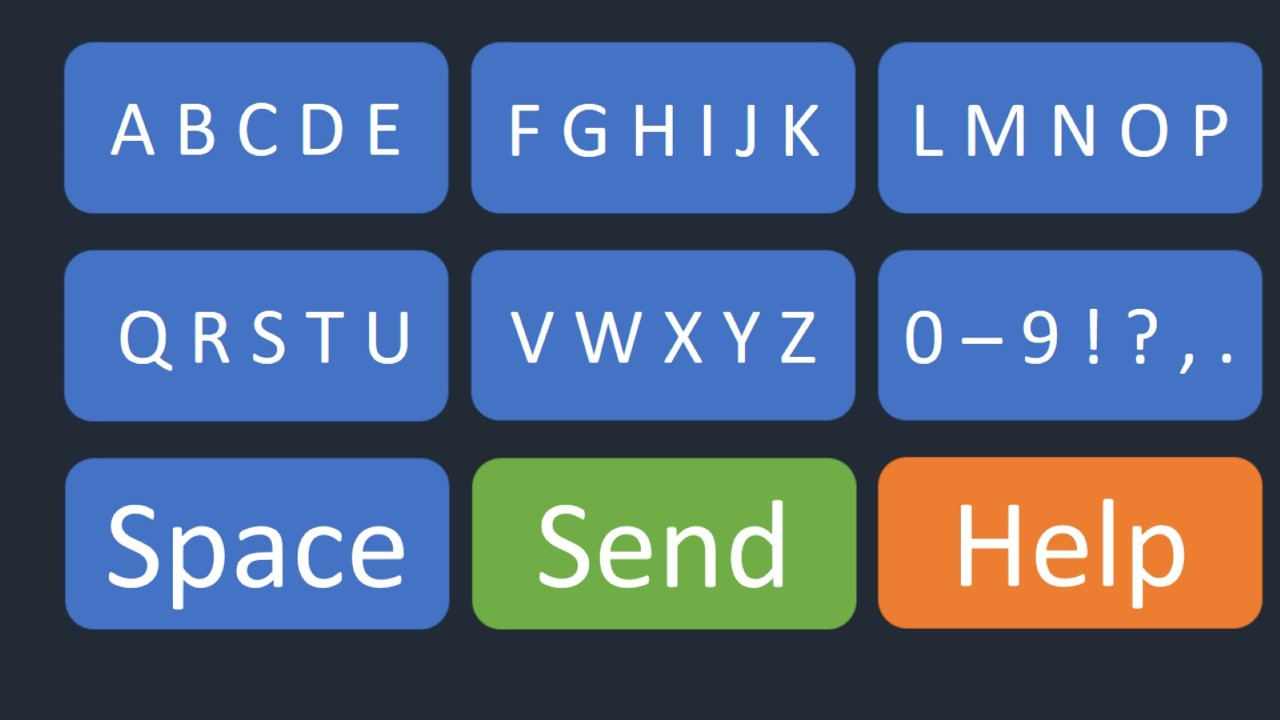
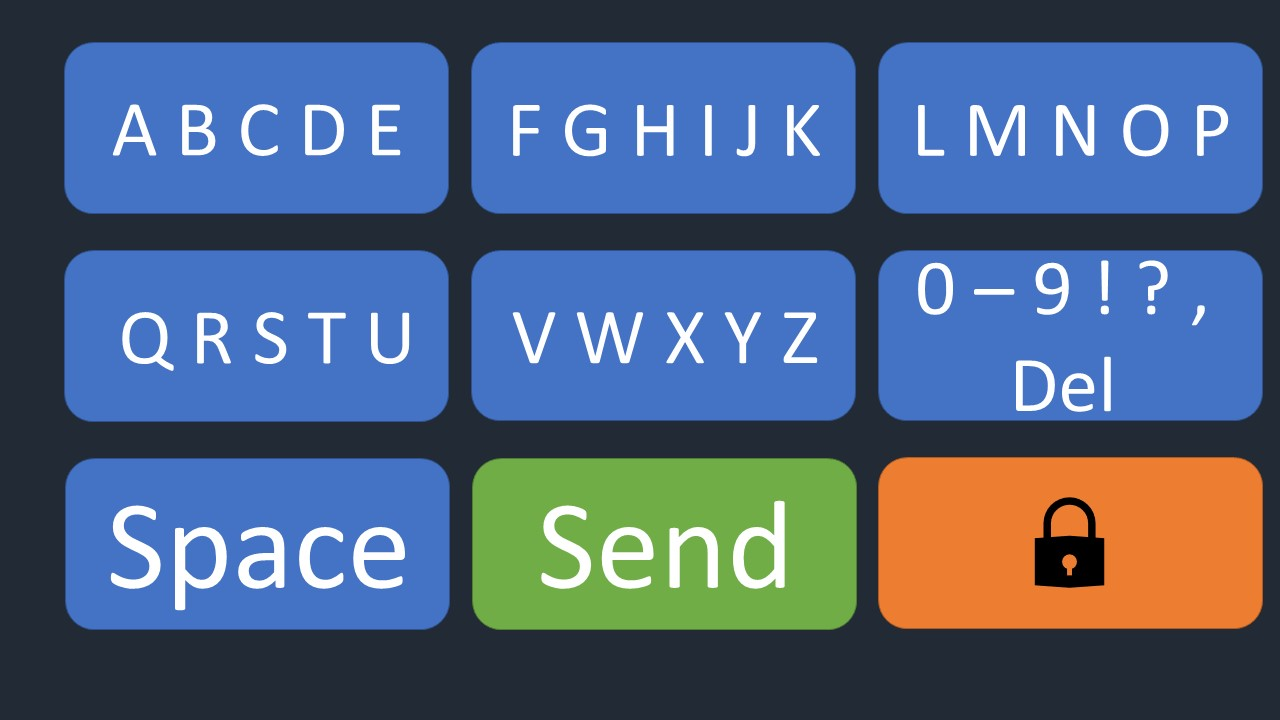
certainty added in online
GUI defualt changes.
keyboard GUI changes

diff --git a/+MainFun/MI_Online_Communicate.m b/+MainFun/MI_Online_Communicate.m
@@ -32,8 +32,8 @@ fullPath = uigetdir(['C:/Subjects/Sub' num2str(subID) '/'], ...
 
 %% Load photos
 
-% Set classes' numbers vector
-Classes = 1 : nClass;
+% % % Set classes' numbers vector
+% % % Classes = 1 : nClass;
 
 % Define the keyboard keys that are listened for:
 KbName('UnifyKeyNames');
@@ -49,28 +49,28 @@ load(strcat(fullPath,'\RF_model.mat'), 'model')
 load(strcat(fullPath,'\FeatureParam.mat'), 'bands','f')
 
 % Sanity check - number of classes
-assert(nClass == length(model.ClassNames), ...
-    'number of chosen classes and number of model classes are uneven!');
+% % % assert(nClass == length(model.ClassNames), ...
+% % %     'number of chosen classes and number of model classes are uneven!');
 
 %% Display Setup
 figure('units','normalized','outerPosition',[1 0 1 1]);
- 
- % get the figure and axes handles
- MainFig = gcf;
- hAx  = gca;
- 
- % set the axes to full screen
- set(hAx,'Unit','normalized','Position',[0 0 1 1]);
- % hide the toolbar
- set(MainFig,'menubar','none')
- % to hide the title
- set(MainFig,'NumberTitle','off');
- % Set background color
- set(hAx,'color', 'black');
 
- hText = text(0.5,0.5 ,...
-     ['Just rest for now.' sprintf('\n') 'The Communication Program will begin soon.'], ...
-     'HorizontalAlignment', 'Center', 'Color', 'white', 'FontSize', 40);
+% get the figure and axes handles
+MainFig = gcf;
+hAx  = gca;
+
+% set the axes to full screen
+set(hAx,'Unit','normalized','Position',[0 0 1 1]);
+% hide the toolbar
+set(MainFig,'menubar','none')
+% to hide the title
+set(MainFig,'NumberTitle','off');
+% Set background color
+set(hAx,'color', 'black');
+
+hText = text(0.5,0.5 ,...
+    ['Just rest for now.' sprintf('\n') 'The Communication Program will begin soon.'], ...
+    'HorizontalAlignment', 'Center', 'Color', 'white', 'FontSize', 40);
 
 %% Record Resteing State Stage
 
@@ -85,8 +85,8 @@ restingStateBands   = EEGFun.restingState(RestingMI, bands, Hz);
 % Show a message that declares that training is about to begin
 delete(hText)
 hText = text(0.5,0.5 ,...
-     'The Communication Program will begin in few seconds.', ...
-     'HorizontalAlignment', 'Center', 'Color', 'white', 'FontSize', 40);
+    'The Communication Program will begin in few seconds.', ...
+    'HorizontalAlignment', 'Center', 'Color', 'white', 'FontSize', 40);
 pause(3)
 
 
@@ -108,8 +108,20 @@ female = 'Microsoft Zira Desktop - English (United States)';
 %% Record Training Stage
 
 runFlag = 1;
+lockedFlag = 0;
+idleCount = 0;
+
 % For each trial:
 while runFlag == 1 % Number of trials times number of classes
+    
+    % Certianty level
+    certainty = 0.35;
+    if lockedFlag
+        certainty = 0.6;
+    end
+    
+    % Accumulate chunk
+    pause(trialLength + 0.5)
     
     % Check Keyboard press - Escape key set for shutting down the program
     [keyIsDown,secs, keyCode] = KbCheck;
@@ -129,44 +141,56 @@ while runFlag == 1 % Number of trials times number of classes
     MIFeatures = Proccessing.ExtractFeatures(MIData, Hz, bands, restingStateBands);
     
     % Predict using the pre-trained model
-    prediction = model.predict(MIFeatures);
+    [prediction, scores] = predict(model, MIFeatures);
+    
     
     % If the trial was noisy, classify as idle
     if removeTrial == 1
         prediction = 1;
+        % If the model was not sure, classify as idle
+    elseif max(scores) < certainty
+        prediction = 1;
     end
-        
+    
+    % Add or reset the idle count
+    if prediction == 1
+        idleCount = idleCount + 1;
+    else
+        idleCount = 0;
+    end
+    
+    % After 4 idles, choose the current sqaure
+    if idleCount == 4
+        idleCount = 0;
+        prediction = 4;
+    end
+    
     % Update state
     [State, output] = Utillity.stateUpdate(State, prediction);
     if output ~= 0
         if strcmp(output, 'Send')
-            Utillity.tts(outputText, female)
+            Utillity.tts(lower(outputText), female)
             % Reset string
             outputText = '';
-        elseif strcmp(output, 'Help')
-            % Change string to help
-            outputText = 'I Need Help';
-            % Say 3 times help is needed
-            for i = 1 : 3
-                Utillity.tts(outputText, female)
-                pause(1)
-            end
-            % Reset the string
-            outputText = '';
+        elseif strcmp(output, 'Lock') && lockedFlag == 0
+            % Lock the keyboard
+            lockedFlag = 1;
+            Utillity.tts('Keyboard Locked', female)
+        elseif strcmp(output, 'Backspace')
+            % Remoce character
+            outputText(end) = '';
         else
             % Add character to string
             outputText(end + 1) = output;
         end
     end
     
+    
+    disp(prediction)
+    disp(scores)
+    
     % Display KeyBoard
     Utillity.KeyBoardGUI(State, MainFig, outputText)
-    
-    %     %Write the result to a txt file
-    %     pred_str = num2str(prediction);
-    %     txtFile = fopen('Action.txt', 'w');
-    %     fprintf(txtFile, pred_str);
-    %     fclose(txtFile);
 end
 
 %Stop simulink

diff --git a/+Utillity/stateUpdate.m b/+Utillity/stateUpdate.m
@@ -43,7 +43,7 @@ elseif Command == 4
     % Get options per current screen
     if strcmp(currentState.screen, 'Main')
         opts = [{'A-E'}, {'F-K'}, {'L-P'}, {'Q-U'}, {'V-Z'}, {'numMenu'}, {'Space'},...
-            {'Send'}, {'Help'}];
+            {'Send'}, {'Lock'}];
     elseif strcmp(currentState.screen, 'A-E')
         opts = [{'A'}, {'B'}, {'C'}, {'D'}, {'E'}, {'Back'}];
     elseif strcmp(currentState.screen, 'F-K')
@@ -55,7 +55,7 @@ elseif Command == 4
     elseif strcmp(currentState.screen, 'V-Z')
         opts = [{'V'}, {'W'}, {'X'}, {'Y'}, {'Z'}, {'Back'}];
     elseif strcmp(currentState.screen, 'numMenu')
-        opts = [{'0-4'}, {'5-9'}, {'?'}, {'.'}, {'!'}, {','}, {'Back'}];
+        opts = [{'0-4'}, {'5-9'}, {'?'}, {'.'}, {'!'}, {'Backspace'}, {'Back'}];
     elseif strcmp(currentState.screen, '0-4')
         opts = [{'0'}, {'1'}, {'2'}, {'3'}, {'4'}, {'Back'}];
     elseif strcmp(currentState.screen, '5-9')
@@ -83,7 +83,7 @@ elseif Command == 4
             newState.screen = 'Main';
             % Return Help
         elseif idx == 9
-            output = 'Help';
+            output = 'Lock';
             newState.position = [0 0 0 0 1 0 0 0 0];
             newState.screen = 'Main';
         end
@@ -191,7 +191,5 @@ elseif Command == 4
     end
 end
 
-
-a =1;
 
 

diff --git a/+Utillity/parameter_gui.m b/+Utillity/parameter_gui.m
@@ -78,6 +78,11 @@ S.ChunkSz = uicontrol('style','edit',...
 % For non-communication systems
 if ~strcmpi(system, 'Communication')
     
+    if strcmpi(system, 'Offline')
+        trials_N = '20';
+    else
+        trials_N = '8';
+    end
     % Set num of trials text
     S.nTrialtxt = uicontrol('style','text',...
         'unit','normalized',...
@@ -88,7 +93,7 @@ if ~strcmpi(system, 'Communication')
     S.nTrial = uicontrol('style','edit',...
         'unit','normalized',...
         'position',[0.8 0.62 0.15 0.1],...
-        'string','20');
+        'string',trials_N);
 end
 
 % Set Hz text
@@ -115,7 +120,7 @@ if strcmpi(system, 'Online')
     % Set accumilation checkbox
     S.accumbx = uicontrol('style','checkbox',...              
         'unit','normalized',...
-        'Value', 1, ...
+        'Value', 0, ...
         'position',[0.525 0.22 0.1 0.1]);
 end
 

diff --git a/+MainFun/MI_Online_Training.m b/+MainFun/MI_Online_Training.m
@@ -208,7 +208,12 @@ for trial = 1 : numTrials * nClass % Number of trials times number of classes
         MIFeatures(chunk_i, :) = Proccessing.ExtractFeatures(MIData, Hz, bands, restingStateBands);
         
         % Predict using the pre-trained model
-        prediction = model.predict(MIFeatures(chunk_i, :));
+        [prediction, scores] = predict(model, MIFeatures(chunk_i, :));
+        
+        % If the model is not sure, mark as idle.
+        if max(scores) < 1 / numClass + 0.03
+            prediction = 1;
+        end
         
         % Saving the indexes of the trials that were classiffied correctly
         if prediction == currentTrial
@@ -254,6 +259,7 @@ EEG(:,:,chunk_i:end)           = [];
 labels(chunk_i:end)            = [];
 trials2remove(chunk_i:end)     = [];
 correctLabeled(chunk_i:end)    = [];
+
 
 %% End of recording session
 ShowCursor;

diff --git a/+Utillity/LearnModel_AllRec.m b/+Utillity/LearnModel_AllRec.m
@@ -4,7 +4,6 @@ function LearnModel_AllRec()
 % The new model will be saved in a new subfolder in the choosen directory.
 
 %% Read Features & Labels
-
 recordingFolder = uigetdir('C:/Subjects/', ...
     'Choose Desired Directory');
 
@@ -42,7 +41,7 @@ trials2remove = logical(trials2remove);
 
 
 k = 5;
-trees_N = 300;
+trees_N = 500;
 
 %Removing bad trials
 MIFeatures(trials2remove, :) = [];
@@ -52,7 +51,7 @@ targetLabels(trials2remove) = [];
 % Test with boosting
 datasetTable = [MIFeatures, targetLabels'];
 [model, validationAccuracy] =...
-    trainBoostClassifier(datasetTable, k, trees_N);
+    ModelFun.trainBaggingClassifier(datasetTable, k, trees_N);
 
 %% Test data
 %Printing the results

diff --git a/+Proccessing/OfflineTraining.m b/+Proccessing/OfflineTraining.m
@@ -32,6 +32,7 @@ date = date(1 : end - 3);
 date = strrep(date,':','-');
 
 Classes = 1 : numClass;
+numClass = length(Classes);
 recordingFolder = strcat('C:\Subjects\Sub',num2str(subID),'\offline- ',date,'\');   %%% Change the path if needed %%%
 mkdir(recordingFolder);
 idleSign = imread('./LoadingPics/idleSign.jpg');              % (1) load idle sign

diff --git a/MI_MainGUI.m b/MI_MainGUI.m
@@ -3,7 +3,7 @@ close all; clear; clc;
 
 % Open GUI and choose a system
  system = Utillity.main_gui();
- 
+
 %% Choose file to run according to decision
 if strcmpi(system,'Offline')
     MainFun.MI_Offline_Training
